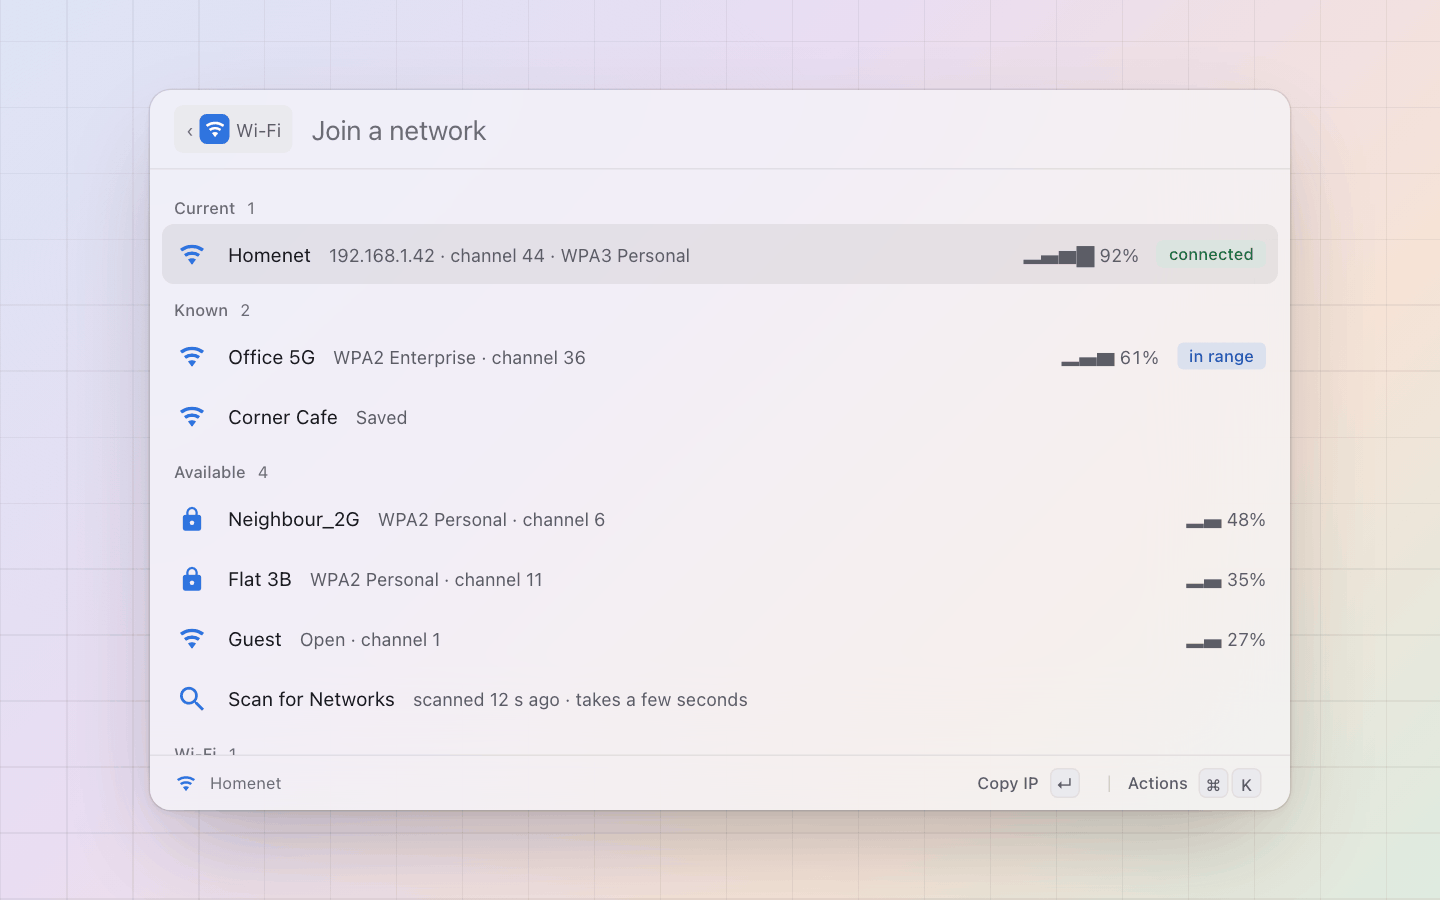
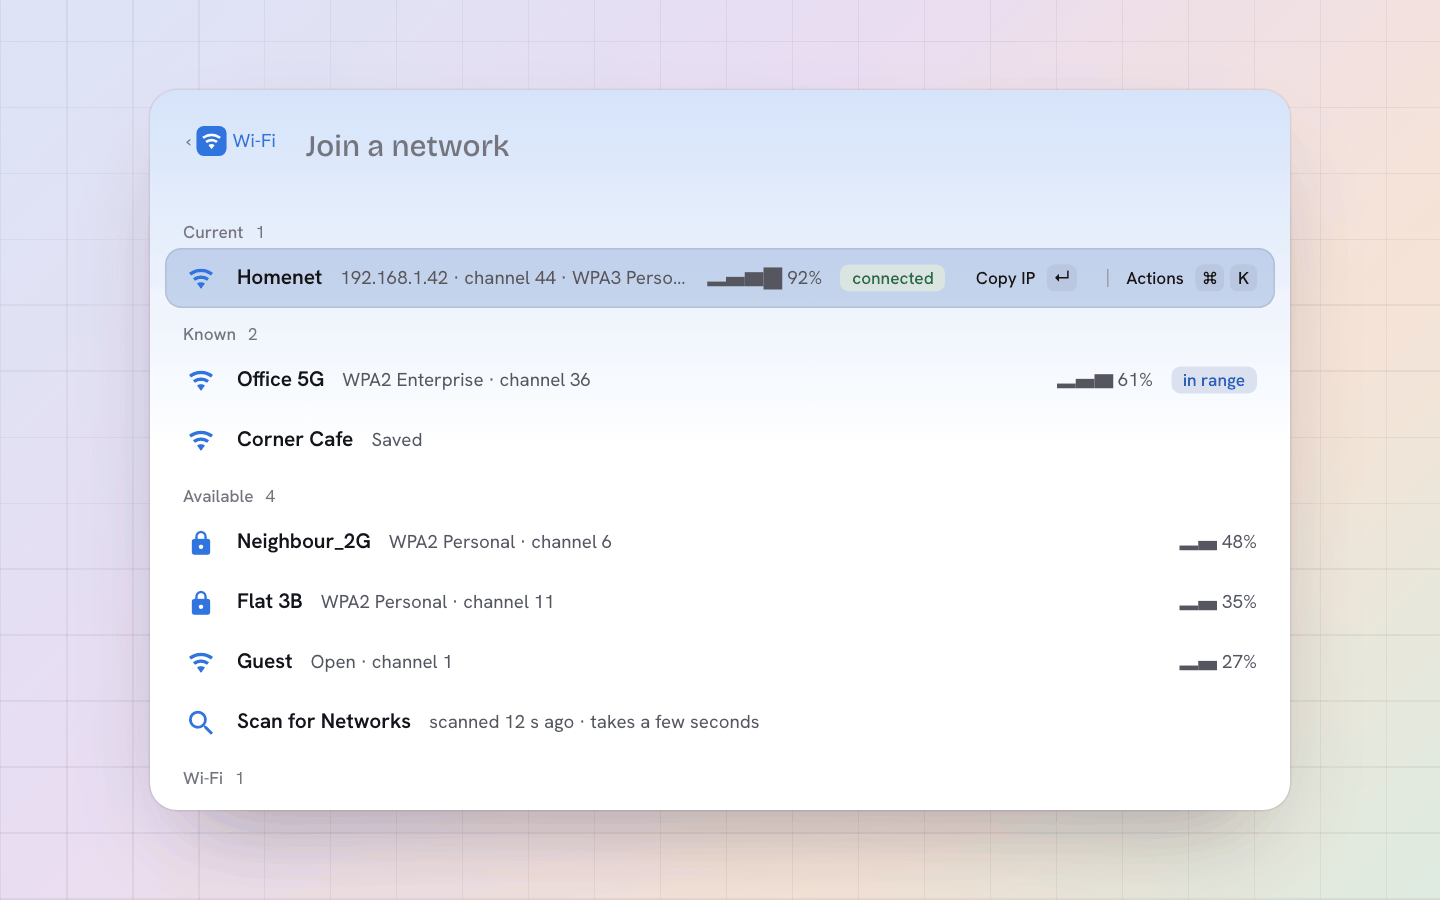
wifi: a network's detail is a page: where it stands, its state and security as chips, signal and channel large, the address under them; a detail screenshot; Ink screenshots

diff --git a/extensions/wifi/index.ts b/extensions/wifi/index.ts
@@ -11,7 +11,7 @@
 // (the system prompt, once per install; the app skips the ask for the
 // startup load), and a refusal is a hint row that opens the pane. Live:
 // listed again on every show.
-import { errorMessage, failed, hint, permissions, toast, wifi, xdg, type Accessory, type Action, type Ctx, type Extension, type Form, type Item, type PermissionStatus, type WifiNetwork } from "@zcag/pal";
+import { errorMessage, failed, hint, permissions, toast, wifi, xdg, type Accessory, type Action, type Ctx, type Detail, type Extension, type Form, type Item, type PermissionStatus, type WifiNetwork } from "@zcag/pal";
 
 const MAC = process.platform === "darwin";
 const WIFI = xdg("network-wireless")!;
@@ -37,6 +37,17 @@ export const bars = (signal: number): string => "▂▄▆█".slice(0, Math.max
 
 const signalAccessory = (signal: number | null): Accessory[] => (signal === null ? [] : [{ text: `${bars(signal)} ${signal}%` }]);
 
+/** A network as a page: where it stands (Current, Saved, In range), its name, its security and state as chips, signal and channel large, the address under them. */
+function networkDetail(caption: string, name: string, n: { signal: number | null; channel: string | null; security: string | null }, chips: Detail["chips"] = [], ip?: string | null): Detail {
+  return {
+    caption,
+    title: name,
+    chips: [...chips, { text: n.security ?? "Open", color: n.security ? "grey" : "amber" }],
+    stats: [...(n.signal !== null ? [{ value: `${n.signal}%`, label: "signal" }] : []), ...(n.channel ? [{ value: n.channel, label: "channel" }] : [])],
+    metadata: ip ? [{ label: "IP address", value: ip }] : [],
+  };
+}
+
 const joinAction: Action = { id: "join", title: "Join" };
 const copyPassword: Action = { id: "password", title: "Copy password", shortcut: "cmd+shift+c" };
 const copyName: Action = { id: "copy", title: "Copy name", shortcut: "cmd+c" };
@@ -51,6 +62,7 @@ function available(n: WifiNetwork): Item {
     icon: n.security ? LOCK : WIFI,
     keywords: ["wifi", "network"],
     accessories: signalAccessory(n.signal),
+    detail: networkDetail("In range", n.ssid, n),
     actions: [joinAction, copyName],
     args: n.security ? [{ id: "password", placeholder: "Password", kind: "password" }] : undefined,
     section: "Available",
@@ -99,6 +111,7 @@ export default {
             icon: WIFI,
             keywords: ["wifi", "network", "current"],
             accessories: [...signalAccessory(cur.signal), { tag: "connected", color: "green" }],
+            detail: networkDetail(`Current · ${status.interface}`, cur.ssid ?? "Connected network", cur, [{ text: "connected", color: "green" }], cur.ip),
             actions,
             section: "Current",
           });
@@ -116,6 +129,7 @@ export default {
             icon: WIFI,
             keywords: ["wifi", "network", "saved"],
             accessories: n ? [...signalAccessory(n.signal), { tag: "in range", color: "blue" }] : [],
+            ...(n && { detail: networkDetail("Saved", k.ssid, n, [{ text: "in range", color: "blue" }]) }),
             actions: [joinAction, copyName, copyPassword, forget],
             section: "Known",
           });

diff --git a/host/test/extensions/wifi.test.ts b/host/test/extensions/wifi.test.ts
@@ -59,6 +59,8 @@ describe("wifi", () => {
     expect(bySection("Current")).toEqual(["current:eldiven"]);
     expect(items[0]).toMatchObject({ name: "eldiven", subtitle: "192.168.1.131 · channel 44 · WPA2", accessories: [{ text: "▂▄▆█ 92%" }, { tag: "connected", color: "green" }] });
     expect(items[0].actions!.map((a) => a.id)).toEqual(["copy_ip", "password", "forget"]);
+    // The detail is the network as a page: connected and its security as chips, signal and channel large, its address under them.
+    expect(items[0].detail).toMatchObject({ title: "eldiven", caption: expect.stringMatching(/^Current · /), chips: [{ text: "connected", color: "green" }, { text: "WPA2", color: "grey" }], stats: [{ value: "92%", label: "signal" }, { value: "44", label: "channel" }], metadata: [{ label: "IP address", value: "192.168.1.131" }] });
     expect(bySection("Known")).toEqual(["known:marvin", "known:Cafe Wifi"]);
     const marvin = items.find((i) => i.id === "known:marvin")!;
     expect(marvin).toMatchObject({ subtitle: "WPA2 · channel 6", accessories: [{ text: "▂▄▆ 60%" }, { tag: "in range", color: "blue" }] });
@@ -66,7 +68,7 @@ describe("wifi", () => {
     expect(marvin.actions![3]).toMatchObject({ style: "destructive", confirm: "Forget, and delete the saved password too?", multi: true });
     expect(items.find((i) => i.id === "known:Cafe Wifi")).toMatchObject({ subtitle: "Saved", accessories: [] });
     expect(bySection("Available")).toEqual(["net:Open Cafe", "net:Neighbour", "scan"]);
-    expect(items.find((i) => i.id === "net:Open Cafe")).toMatchObject({ subtitle: "Open · channel 1", accessories: [{ text: "▂▄▆ 55%" }] });
+    expect(items.find((i) => i.id === "net:Open Cafe")).toMatchObject({ subtitle: "Open · channel 1", accessories: [{ text: "▂▄▆ 55%" }], detail: { caption: "In range", chips: [{ text: "Open", color: "amber" }] } });
     // Only a secured network that is not saved takes a password in the bar: an open one has none, a known one has it saved.
     expect(items.find((i) => i.id === "net:Neighbour")!.args).toEqual([{ id: "password", placeholder: "Password", kind: "password" }]);
     expect(items.find((i) => i.id === "net:Open Cafe")!.args).toBeUndefined();
